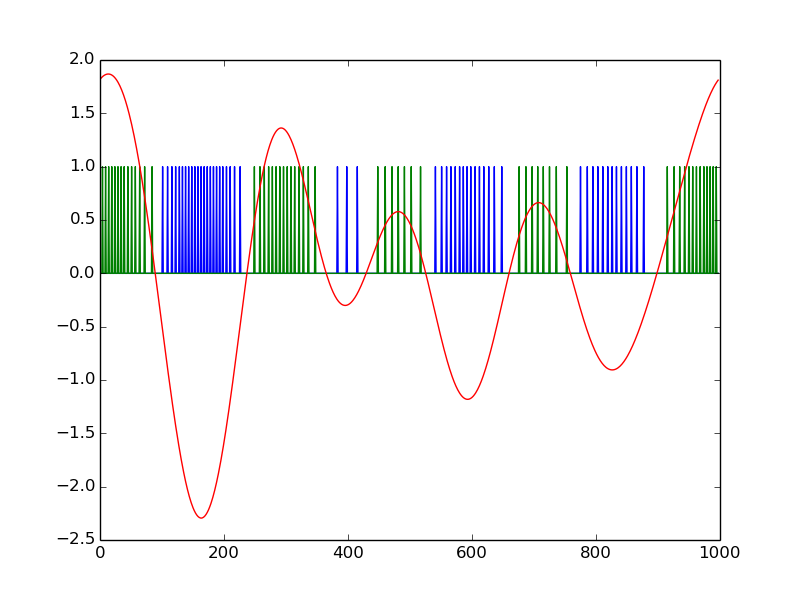
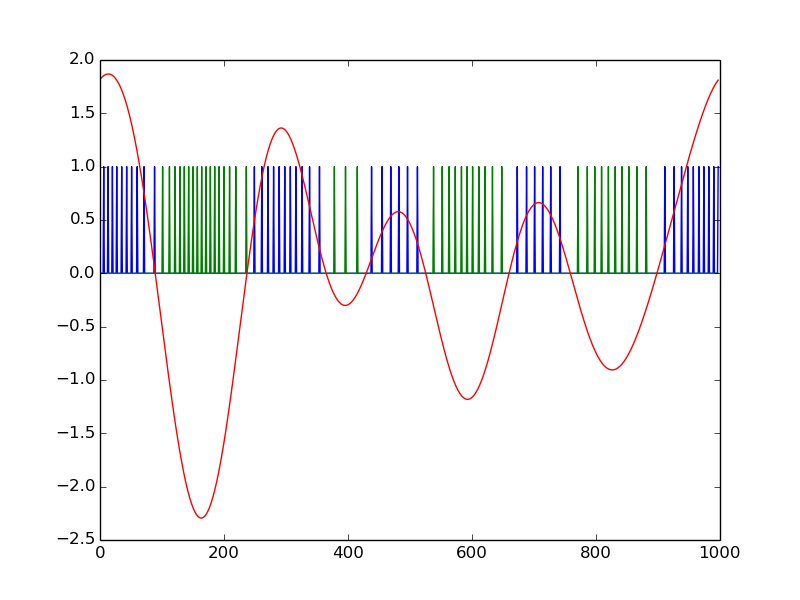
fixed the tracking problem

Changed region(s): [[0.125, 0.27, 0.9062, 0.48]]

diff --git a/SYDE750_ass3/q4.py b/SYDE750_ass3/q4.py
@@ -2,42 +2,129 @@ import numpy as np
 import ipdb
 import matplotlib.pyplot as plt
 
+from utils import whitenoise, calc_rmse, lif_ensemble, modified_lif, ptsc, get_decoders
+
 import sys
 from IPython.core import ultratb
 sys.excepthook = ultratb.FormattedTB(mode='Verbose',
      color_scheme='Linux', call_pdb=1)
 
-# just pass in f_x into the decoders of the first population
-# do I mean the activity matrix?
-# do I just get the activities from the previous deocder matrix?
-
 n_neurons = 200
 
-# regenerate the decoders in the old-fashioned way for both populations
+# create the neuron ensembles
 dt = 0.001
 t_range = np.arange(0, 1, dt)
+h_range = np.arange(1000)*dt-0.5
+h = ptsc(h_range, 0.005)
 
+max_firing_rates = np.random.uniform(100, 200, n_neurons)
+x_cepts = np.random.uniform(-2, 2, n_neurons)
+gain_signs = np.random.choice([-1, 1], n_neurons)
+lifs = []
+for i in range(n_neurons):
+	lifs.append(
+		modified_lif(
+			x_cepts[i],
+			max_firing_rates[i]
+		)
+	)
+ensemble = lif_ensemble(lifs, gain_signs)
 
-input_func = lambda t: t - 1
+# this is the goal function to decode
+decode_func = lambda x: 2*x + 1
 
+# the first ensemble computes the aformentioned function
+x_vals = np.linspace(-2, 2, t_range.size)
+res = []
+for val in np.nditer(x_vals):
+	res.append(ensemble(val))
+res = np.array(res)
+
+# get activities based off of linear function
+A = np.zeros((t_range.size, res.shape[1]))
+for i_n in range(len(lifs)):
+	A[:,i_n] = np.convolve(res[:,i_n], h, mode='same')
+
+# decode with the modified function (got this from the notes)
+first_decoders, x_hat = get_decoders(A.T, A.shape[0], decode_func(x_vals))
+
+"""
+# check that it works okay
 fig = plt.figure()
-plt.plot(t_range, input_func(t_range))
-plt.savefig("4_a")
+plt.plot(t_range, decode_func(x_vals), label="input")
+plt.plot(t_range, x_hat, label="approximate")
+plt.legend()
+plt.savefig("funky_decoder")
 
-def input_func(t_range):
-	y_vals = np.random.uniform(-1, 0, 10)
+# get the activities from the new input
+input_func = lambda t: t - 1
+res = []
+for val in np.nditer(input_func(t_range)):
+	res.append(ensemble(val))
+res = np.array(res)
+
+A = np.zeros((t_range.size, res.shape[1]))
+for i_n in range(len(lifs)):
+	A[:,i_n] = np.convolve(res[:,i_n], h, mode='same')
+
+# decode them to make sure they aren't totally absurd
+# OH GOD. THEY'RE TERRIBLE. WHAT HAPPENED. ARE THEY SUPPOSED TO BE THIS BAD?
+new_x_hat = np.dot(A, first_decoders)
+fig = plt.figure()
+plt.plot(t_range, input_func(t_range), label="input")
+plt.plot(t_range, decode_func(input_func(t_range)), label="actual")
+plt.plot(t_range, new_x_hat, label="approximate")
+plt.legend()
+plt.savefig("4_a")
+"""
+
+# test this method on a bunch of other functions
+def input_func(t_range, steps=2):
+	y_vals = np.random.uniform(-1, 0, steps)
 	return_vals = []
-	increment = t_range.size/10
+	increment = t_range.size/steps
 	for t in range(t_range.size):
 		return_vals.append(y_vals[t/increment])
 	return np.array(return_vals)
 
+res = []
+for val in np.nditer(input_func(t_range)):
+	res.append(ensemble(val))
+res = np.array(res)
+
+A = np.zeros((t_range.size, res.shape[1]))
+for i_n in range(len(lifs)):
+	A[:,i_n] = np.convolve(res[:,i_n], h, mode='same')
+
+# decode them to make sure they aren't totally absurd
+new_x_hat = np.dot(A, first_decoders)
+
 fig = plt.figure()
-plt.plot(t_range, input_func(t_range))
+plt.plot(t_range, input_func(t_range), label="input")
+plt.plot(t_range, decode_func(input_func(t_range)), label="actual")
+plt.plot(t_range, new_x_hat, label="approximate")
+plt.legend()
 plt.savefig("4_b")
 
+"""
 input_func = lambda t: 0.2*np.sin(6*np.pi*t)
 
+res = []
+for val in np.nditer(input_func(t_range)):
+	res.append(ensemble(val))
+res = np.array(res)
+
+A = np.zeros((t_range.size, res.shape[1]))
+for i_n in range(len(lifs)):
+	A[:,i_n] = np.convolve(res[:,i_n], h, mode='same')
+
+# decode them to make sure they aren't totally absurd
+new_x_hat = np.dot(A, first_decoders)
+
 fig = plt.figure()
-plt.plot(t_range, input_func(t_range))
+plt.plot(t_range, input_func(t_range), label="input")
+plt.plot(t_range, decode_func(input_func(t_range)), label="actual")
+plt.plot(t_range, new_x_hat, label="approximate")
+plt.legend()
 plt.savefig("4_c")
+"""

diff --git a/SYDE750_ass3/q1.py b/SYDE750_ass3/q1.py
@@ -9,8 +9,6 @@ from utils import calc_rmse, lif_neuron, get_activities, get_decoders, plot_xhat
 n_neurons = 16
 rmse = []
 
-# this feels weird, because my neurons look weird
-# can I keep the radius of the input = 1, even if my x-intercepts are being generated outside of that range?
 max_firing_rates = np.random.uniform(100, 200, n_neurons)
 x_cepts = np.random.uniform(-2, 2, n_neurons)
 gain_signs = np.random.choice([-1, 1], n_neurons)
@@ -18,7 +16,6 @@ gain_signs = np.random.choice([-1, 1], n_neurons)
 x_vals = np.arange(-2.55, 2.55, 0.05)
 S = x_vals.size
 
-# Okay, I have no idea how to a radius of 2.0, but I'm going to assume it's not a big deal
 A, neurons = get_activities(lif_neuron, x_vals, n_neurons, x_cepts, max_firing_rates, gain_signs, radius=2.0)
 
 # plot the lif neurons
@@ -35,4 +32,4 @@ fig.savefig("1_1a")
 A_noisy = A.T + np.random.normal(scale=0.2*200, size=A.T.shape)
 decoders_noisy, x_hat_noisy = get_decoders(A_noisy.T, S, x_vals)
 
-plot_xhat(x_vals, x_hat_noisy, "noiseless neurons, noiseless decoders", "1_1b")
+plot_xhat(x_vals, x_hat_noisy, "noisy neurons, noisy decoders", "1_1b")

diff --git a/SYDE750_ass3/utils.py b/SYDE750_ass3/utils.py
@@ -15,10 +15,7 @@ def lif_neuron(x_inter, max_fire, t_ref=0.002, t_rc=0.02, radius=1.0):
 			(-1.0/max_fire + t_ref) / t_rc
 		)
 	)
-	# okay, how the hell do you take the radius into account?
-	#alpha = 1/radius * (1.0 - beta)/(x_inter + 1.0)
 	alpha = (1.0 - beta)/(x_inter + radius*1.0)
-	#J_bias = 1.0 - alpha * x_inter * radius
 	J_bias = 1.0 - alpha * x_inter
 	def lif(x):
 		J = x * alpha + J_bias
@@ -33,18 +30,14 @@ def lif_neuron(x_inter, max_fire, t_ref=0.002, t_rc=0.02, radius=1.0):
 		return return_val
 	return lif
 
-def modified_lif(x0_fire, max_fire, t_ref=0.002, t_rc=0.02):
+def modified_lif(x0_fire, max_fire, t_ref=0.002, t_rc=0.02, radius=2.0):
 	beta = 1.0 / (
 		1.0 - np.exp(
 			(-1.0/max_fire + t_ref) / t_rc
 		)
 	)
-	J_bias = 1.0 / (
-		1.0 - np.exp(
-			(-1.0/x0_fire + t_ref) / t_rc
-		)
-	)
-	alpha = beta - J_bias
+	alpha = (1.0 - beta)/(x0_fire + radius*1.0)
+	J_bias = 1.0 - alpha * x0_fire
 	def lif_current(x):
 		J = x * alpha + J_bias
 		if(J > 1):

diff --git a/SYDE750_ass3/q6.py b/SYDE750_ass3/q6.py
@@ -1,0 +1,1 @@
+# and now vectors...
